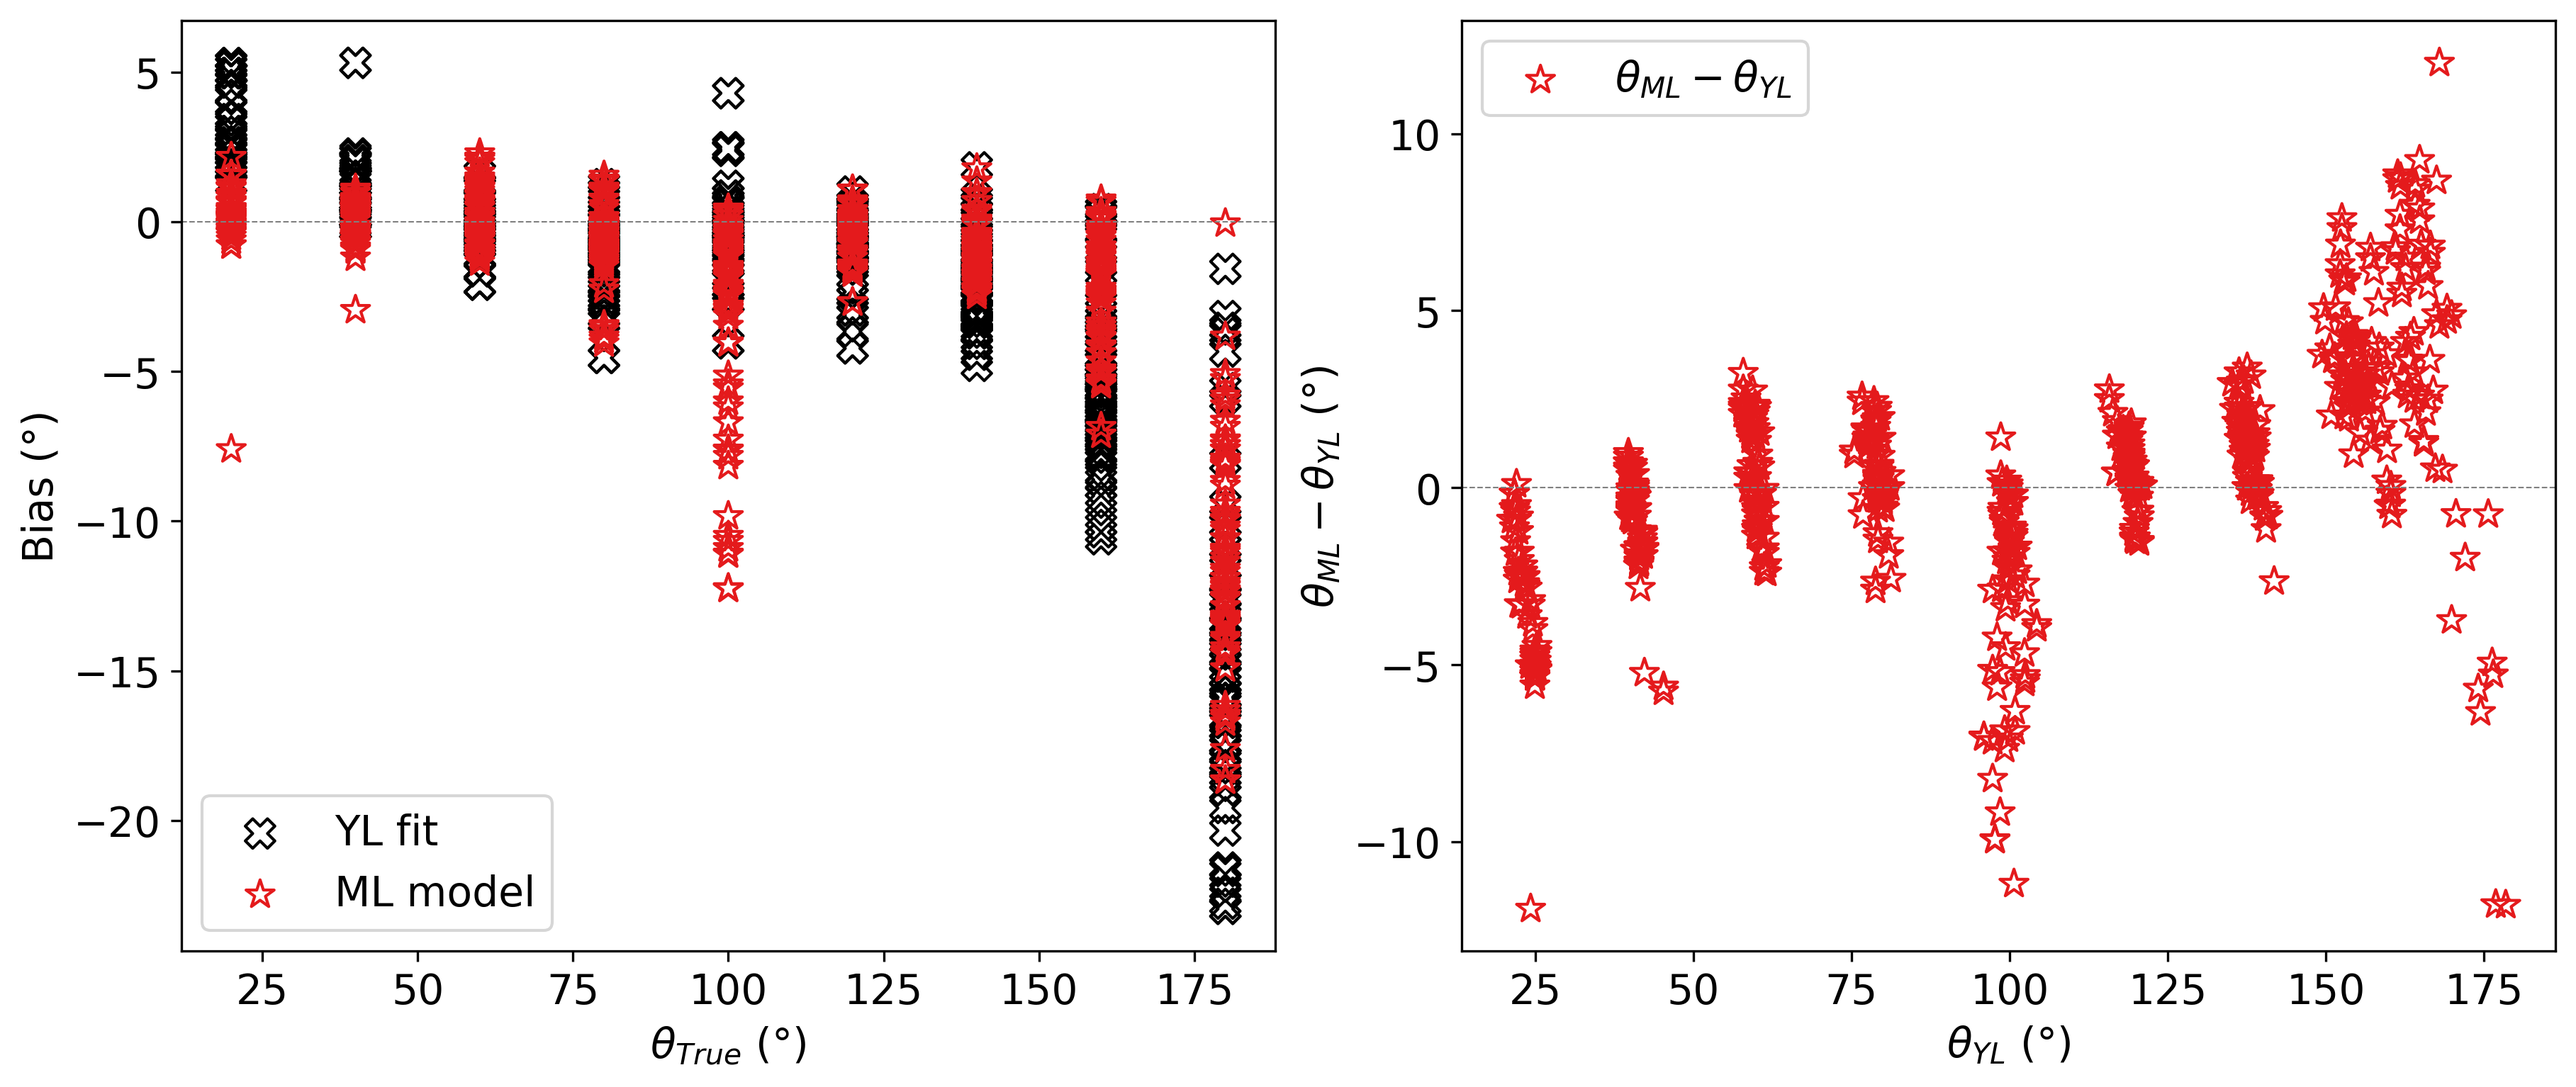
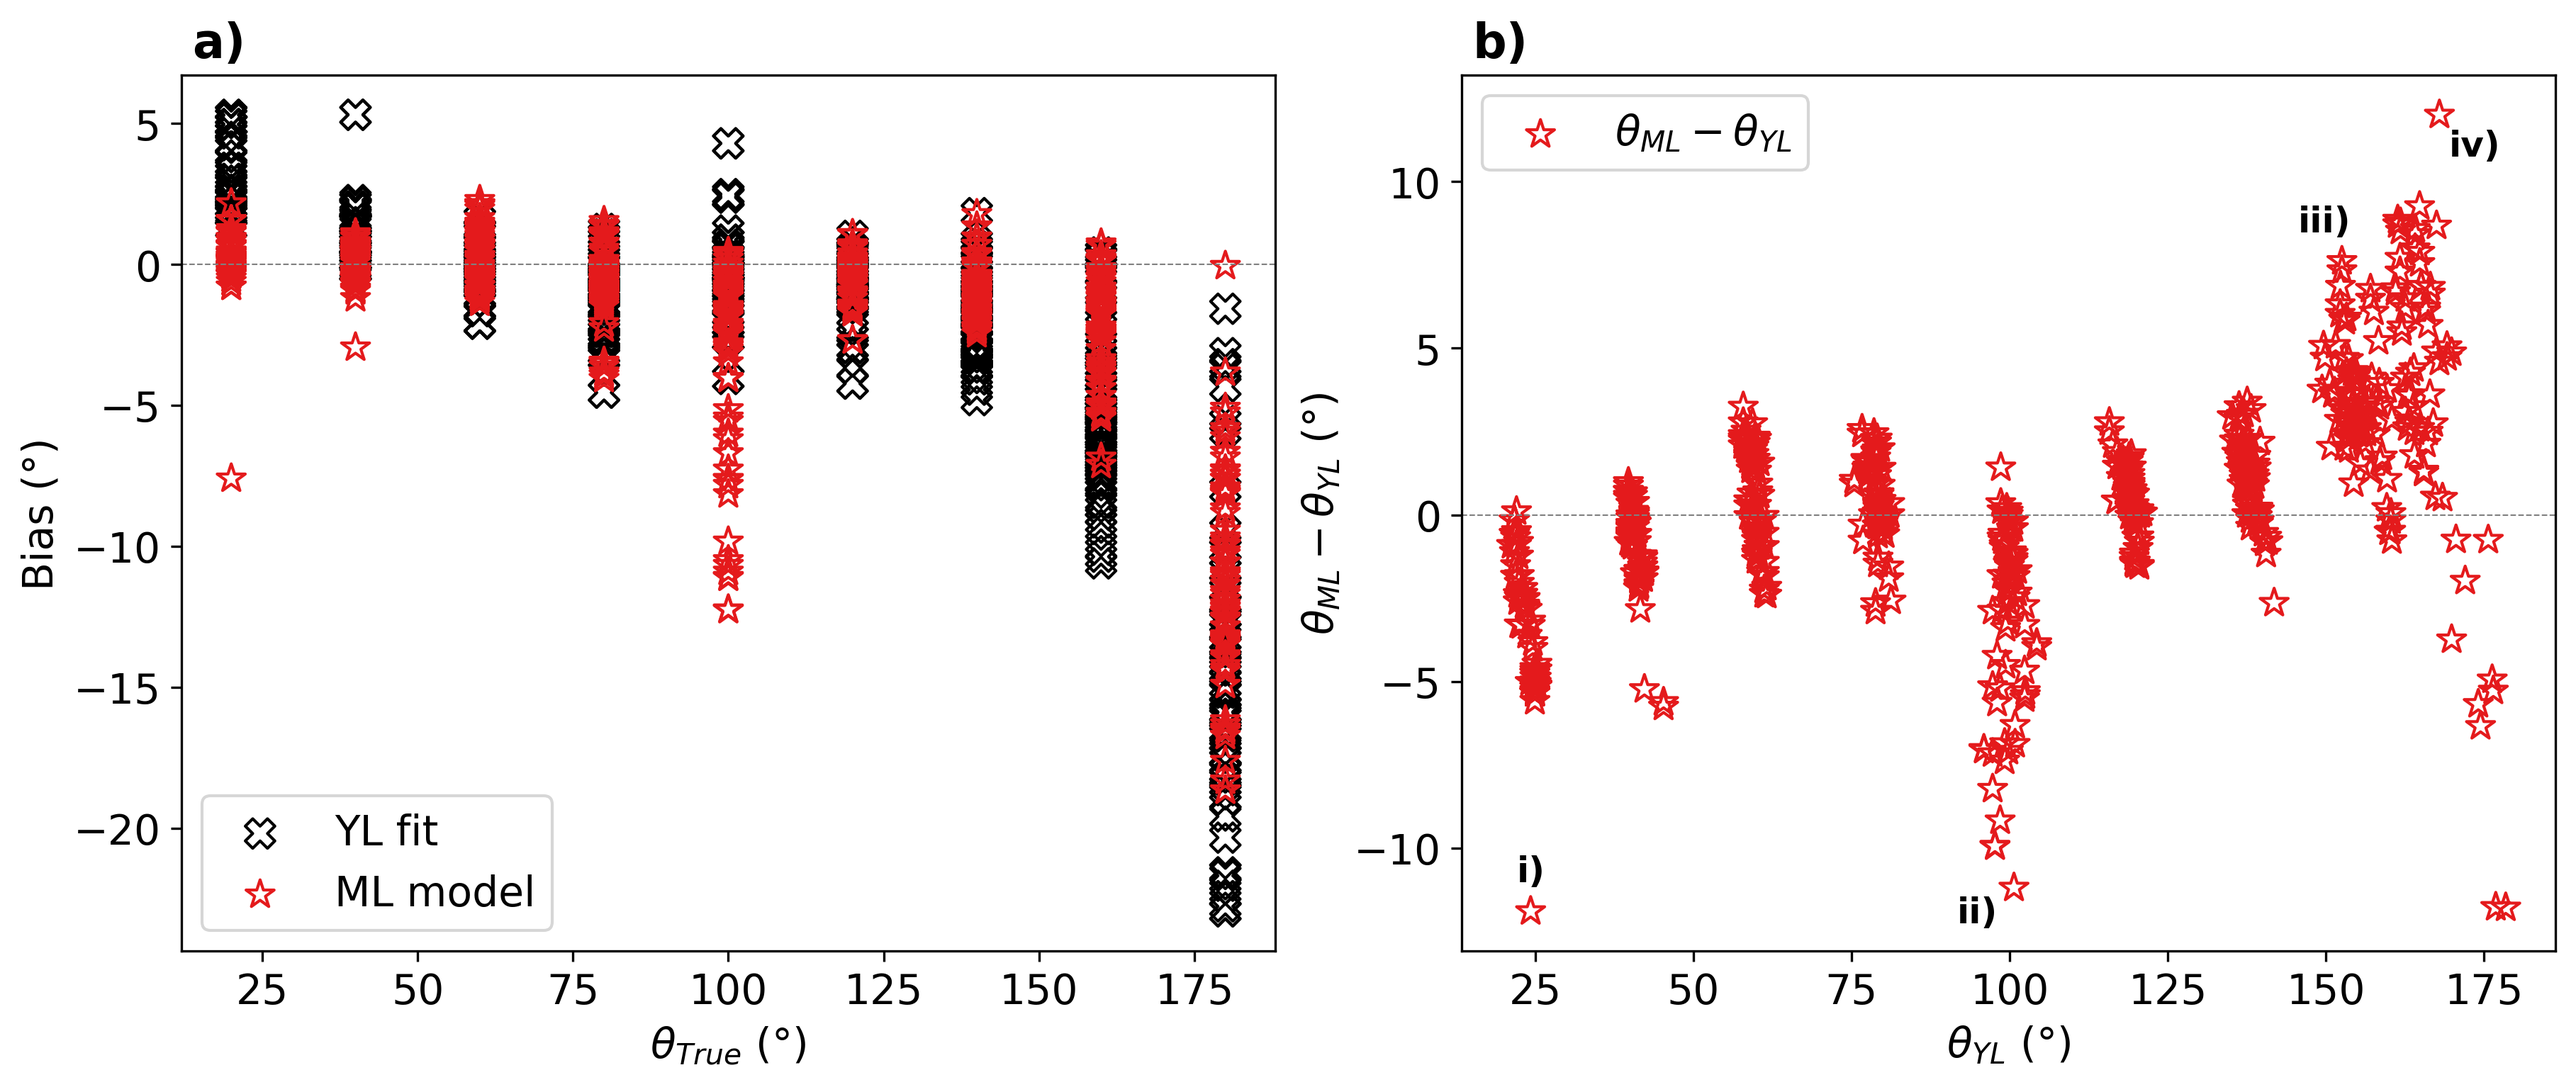
fix(paper): replace the 180° synthetic system with two systems where ML is better than YL, and panel labels to bias/disagreement figure
Add a 160° reflective-surface case to the synthetic composite panel (alongside the existing 20°/100°/180° cases) and extend the label set to i)-iv).
Add a 180° system where ML performs well relative to YL fit.
Annotate the bias-and-disagreement figure with matching i)-iv) markers plus a)/b) panel labels so the curated systems can be traced back to their location on the ML-vs-YL disagreement plot.
Regenerate the two affected figures.

diff --git a/paper_results/plot/plot_synthetic.py b/paper_results/plot/plot_synthetic.py
@@ -128,6 +128,8 @@ def plot_bias_and_disagreement(df):
     axes[0].axhline(0, color="gray", linewidth=0.5, linestyle="--")
     axes[0].set_xlabel(u"$\\theta_{True}$ (\u00B0)")
     axes[0].set_ylabel(u"Bias (\u00B0)")
+    axes[0].text(0.01, 1.02, "a)", transform=axes[0].transAxes,
+                 fontsize=16, fontweight="bold")
     axes[0].legend()
 
     # Right panel: ML - YL disagreement vs YL angle
@@ -138,7 +140,34 @@ def plot_bias_and_disagreement(df):
     axes[1].axhline(0, color="gray", linewidth=0.5, linestyle="--")
     axes[1].set_xlabel(u"$\\theta_{YL}$ (\u00B0)")
     axes[1].set_ylabel(u"$\\theta_{ML} - \\theta_{YL}$ (\u00B0)")
+    axes[1].text(0.01, 1.02, "b)", transform=axes[1].transAxes,
+                 fontsize=16, fontweight="bold")
     axes[1].legend()
+
+    # i)-iv) annotations linking to the curated systems shown in
+    # figures/CA_tangent_plots/synthetic_composite.png
+    composite_systems = [
+        ("i)", "20.0_0.6000000000000001_4.0_0.006_CPL_302_461_CPR_442_461_.png",
+         "left", (0, 10)),
+        ("ii)", "100.0_0.8_4.0_0.0_CPL_303_461_CPR_441_461_.png",
+         "left", (-6, -26)),
+        ("iii)", "160.0_0.8_4.0_-0.03_CPL_331_447_CPR_413_447_.png",
+         "left", (-6, 10)),
+        ("iv)", "180.0_1.0_1.0_0.006_CPL_234_461_CPR_510_461_.png",
+         "left", (12, -14)),
+    ]
+    for label, image_name, side, offset_b in composite_systems:
+        row = df.loc[df["image_name"] == image_name]
+        if row.empty:
+            continue
+        row = row.iloc[0]
+        yl_angle = row[f"yl_{side}_angle"]
+        ml_angle = row[f"ml_{side}_angle"]
+
+        # Panel b): (theta_ML - theta_YL) vs theta_YL
+        axes[1].annotate(label, xy=(yl_angle, ml_angle - yl_angle),
+                          xytext=offset_b, textcoords="offset points",
+                          ha="center", fontsize=12, fontweight="bold")
 
     save_figure(fig, SUBDIR, "synthetic_bias_and_disagreement.png")
 

diff --git a/paper_results/plot/plot_cp_comparison.py b/paper_results/plot/plot_cp_comparison.py
@@ -67,13 +67,14 @@ EXPERIMENTAL_IMAGES = [
 SYNTHETIC_IMAGES = [
     "20.0_0.6000000000000001_4.0_0.006_CPL_302_461_CPR_442_461_.png",
     "100.0_0.8_4.0_0.0_CPL_303_461_CPR_441_461_.png",
-    "180.0_0.0_1.0_0.006_CPL_372_461_CPR_372_461_.png",
+    "160.0_0.8_4.0_-0.03_CPL_331_447_CPR_413_447_.png",
+    "180.0_1.0_1.0_0.006_CPL_234_461_CPR_510_461_.png",
 ]
 
 # Panel labels overlaid on the top-left of each *_overview.svg (aligned to the
 # image lists above; set to None for no label). Experimental labels mirror the
 # i)–vi) markers on the agreement-panel extrema in the plan.
-SYNTHETIC_LABELS = ["i)", "ii)", "iii)"]
+SYNTHETIC_LABELS = ["i)", "ii)", "iii)", "iv)"]
 EXPERIMENTAL_LABELS = ["i)", "ii)", "iii)", "iv)", "v)", "vi)"]
 
 
